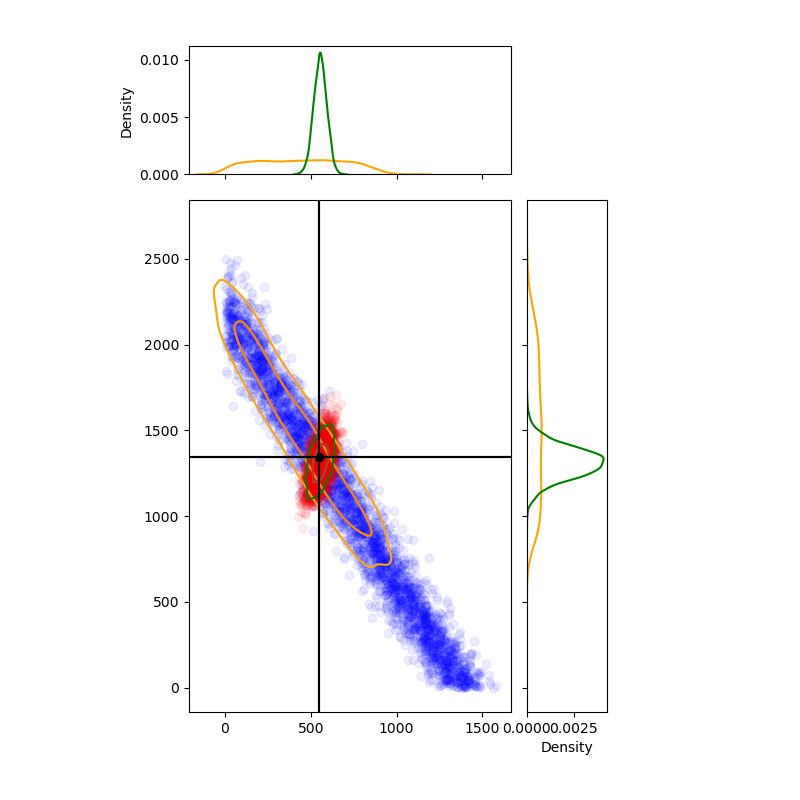
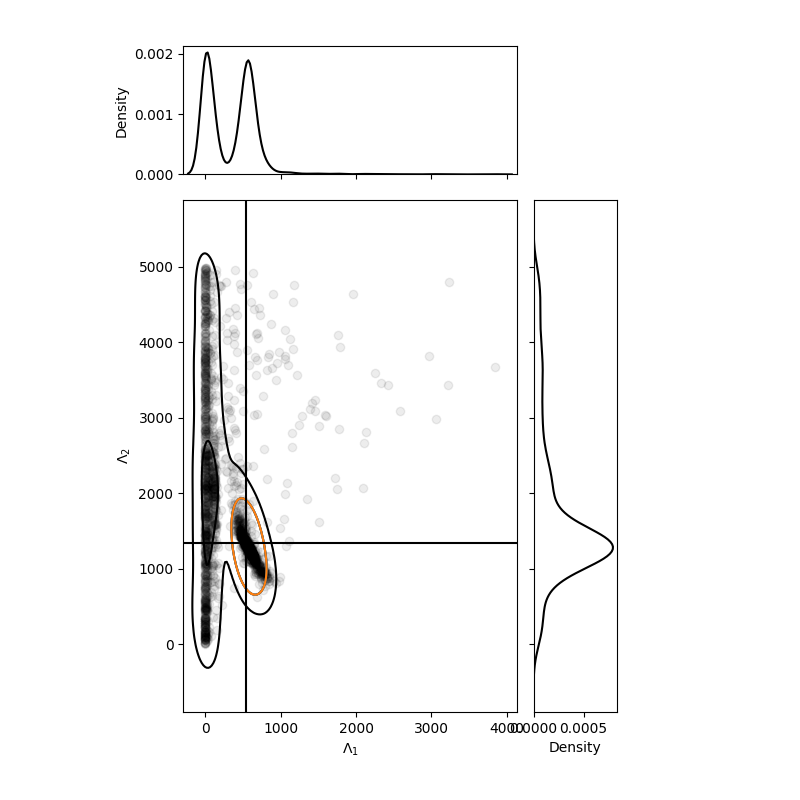
common radius data loader written, plots generate but don't cut off properly

diff --git a/compare_binary_love.py b/compare_binary_love.py
@@ -1,6 +1,7 @@
 import matplotlib.pyplot as plt
 
-from data_loaders import DataLoaderJSON, DataLoaderH5
+import common_radius_conversion_functions
+from data_loaders import DataLoaderJSON, DataLoaderH5, DataLoaderCommonRadius
 from plot_posterior import PlotPosterior
 
 parameters = ['lambda_1', 'lambda_2']
@@ -18,6 +19,20 @@ binary_love_plotter = PlotPosterior(binary_love_data.posteriors_dict[parameters[
                                   binary_love_data.injection_dict[parameters[0]], binary_love_data.injection_dict[parameters[1]],
                                     limit_at_axes=False, limit_at_diagonal=True)
 
+common_radius_filename = 'bns_common_radius_result'
+common_radius_data = DataLoaderCommonRadius(filename='data/' + common_radius_filename + '.json', parameters=['lambda_2', 'mass_ratio'])
+common_radius_CR_samples = common_radius_data.posteriors['common_radius_uniform']
+common_radius_lambda_1 = common_radius_conversion_functions.common_radius_lambda_2_to_lambda_1_lambda_2_manual_marginalisation(
+    common_radius_CR_samples, common_radius_data.posteriors_dict['lambda_2'],
+    common_radius_data.posteriors_dict['mass_ratio'])[0]
+common_radius_data.posteriors_dict['lambda_1'] = common_radius_lambda_1
+common_radius_data.injection_dict['lambda_1'] = 545
+
+print(common_radius_data.posteriors_dict['lambda_1'], common_radius_data.posteriors_dict['lambda_2'])
+
+common_radius_plotter = PlotPosterior(common_radius_data.posteriors_dict[parameters[0]], common_radius_data.posteriors_dict[parameters[1]],
+                                    common_radius_data.injection_dict['lambda_1'], common_radius_data.injection_dict['lambda_2'],
+                                    limit_at_axes=False, limit_at_diagonal=False)
 
 
 fig = plt.figure(figsize=(8, 8))
@@ -27,14 +42,20 @@ ax.set(box_aspect=1)
 ax_histx = ax.inset_axes([0, 1.05, 1, 0.25], sharex=ax)
 ax_histy = ax.inset_axes([1.05, 0, 0.25, 1], sharey=ax)
 
-zero_spin_plotter.scatter_hist(x=zero_spin_plotter.data1, y=zero_spin_plotter.data2, ax=ax,
-                               injected_x=zero_spin_plotter.injected_1, injected_y=zero_spin_plotter.injected_2,
-                               ax_histx=ax_histx, ax_histy=ax_histy, scatter_color='blue', color='orange', label='w/o binary Love')
+# zero_spin_plotter.scatter_hist(x=zero_spin_plotter.data1, y=zero_spin_plotter.data2, ax=ax,
+#                                injected_x=zero_spin_plotter.injected_1, injected_y=zero_spin_plotter.injected_2,
+#                                ax_histx=ax_histx, ax_histy=ax_histy, scatter_color='blue', color='orange', label='w/o binary Love')
+#
+# binary_love_plotter.scatter_hist(x=binary_love_plotter.data1, y=binary_love_plotter.data2, ax=ax,
+#                                injected_x=binary_love_plotter.injected_1, injected_y=binary_love_plotter.injected_2,
+#                                ax_histx=ax_histx, ax_histy=ax_histy, scatter_color='red', color='green', label='with binary Love')
 
-binary_love_plotter.scatter_hist(x=binary_love_plotter.data1, y=binary_love_plotter.data2, ax=ax,
-                               injected_x=binary_love_plotter.injected_1, injected_y=binary_love_plotter.injected_2,
-                               ax_histx=ax_histx, ax_histy=ax_histy, scatter_color='red', color='green', label='with binary Love')
+common_radius_plotter.scatter_hist(x=common_radius_plotter.data1, y=common_radius_plotter.data2, ax=ax,
+                               injected_x=common_radius_plotter.injected_1, injected_y=common_radius_plotter.injected_2,
+                               ax_histx=ax_histx, ax_histy=ax_histy, scatter_color='black', color='black', label='with common radius')
 
 plt.axis('scaled')
+plt.xlabel('$\Lambda_1$')
+plt.ylabel('$\Lambda_2$')
 plt.savefig('plots/binary_love_comparison_plot.png')
 # plt.show()

diff --git a/data_loaders.py b/data_loaders.py
@@ -29,3 +29,22 @@ class DataLoaderH5:
         for parameter in parameters:
             self.posteriors_dict[parameter] = posteriors[parameter][:]
             self.injection_dict[parameter] = injection_parameters[parameter][()]
+
+
+
+import numpy as np
+
+class DataLoaderCommonRadius:
+    def __init__(self, filename, parameters):
+        with open(filename) as file:
+            data = json.load(file)
+
+        self.posteriors = data['nested_samples']['content']
+        injection_parameters = data['injection_parameters']
+
+        self.posteriors_dict = {}
+        self.injection_dict = {}
+
+        for parameter in parameters:
+            self.posteriors_dict[parameter] = np.array(self.posteriors[parameter])
+            self.injection_dict[parameter] = injection_parameters[parameter]
